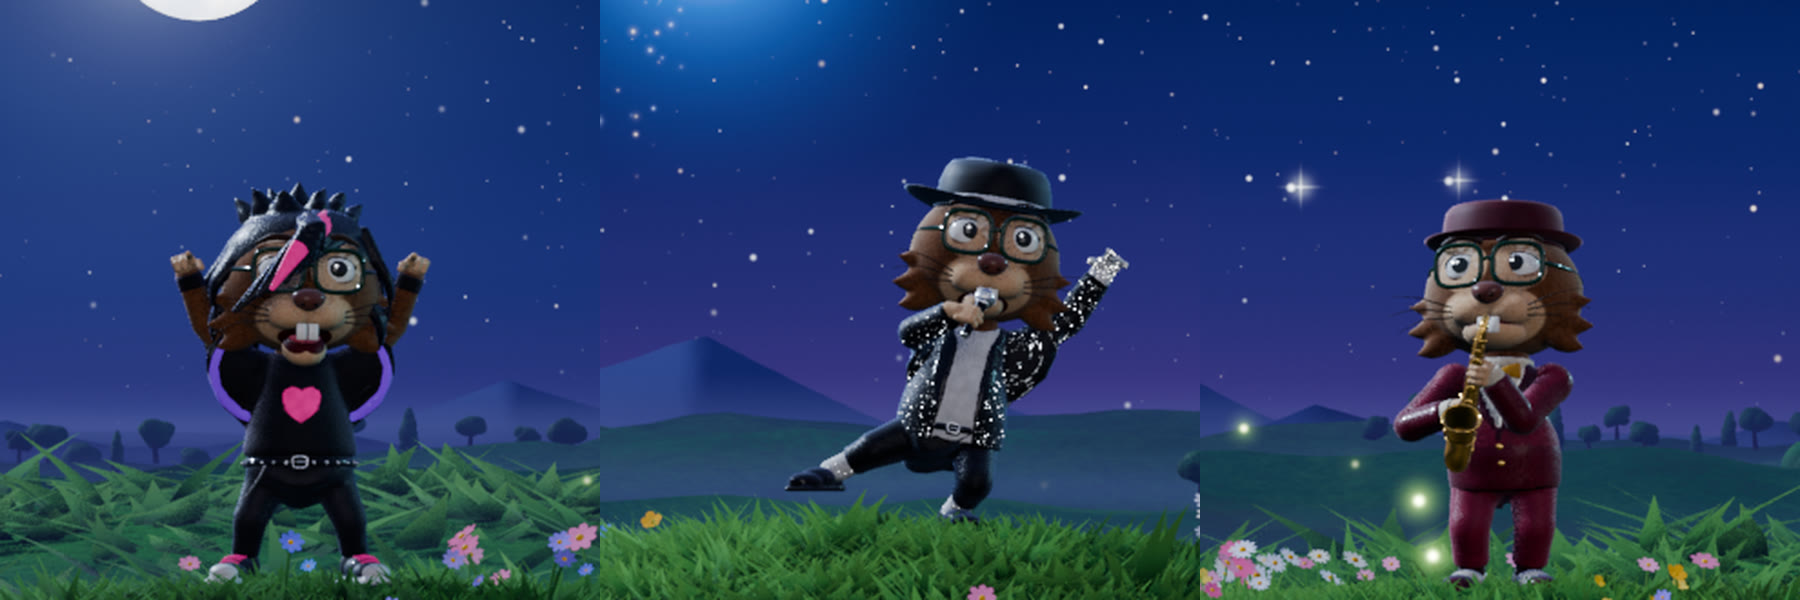
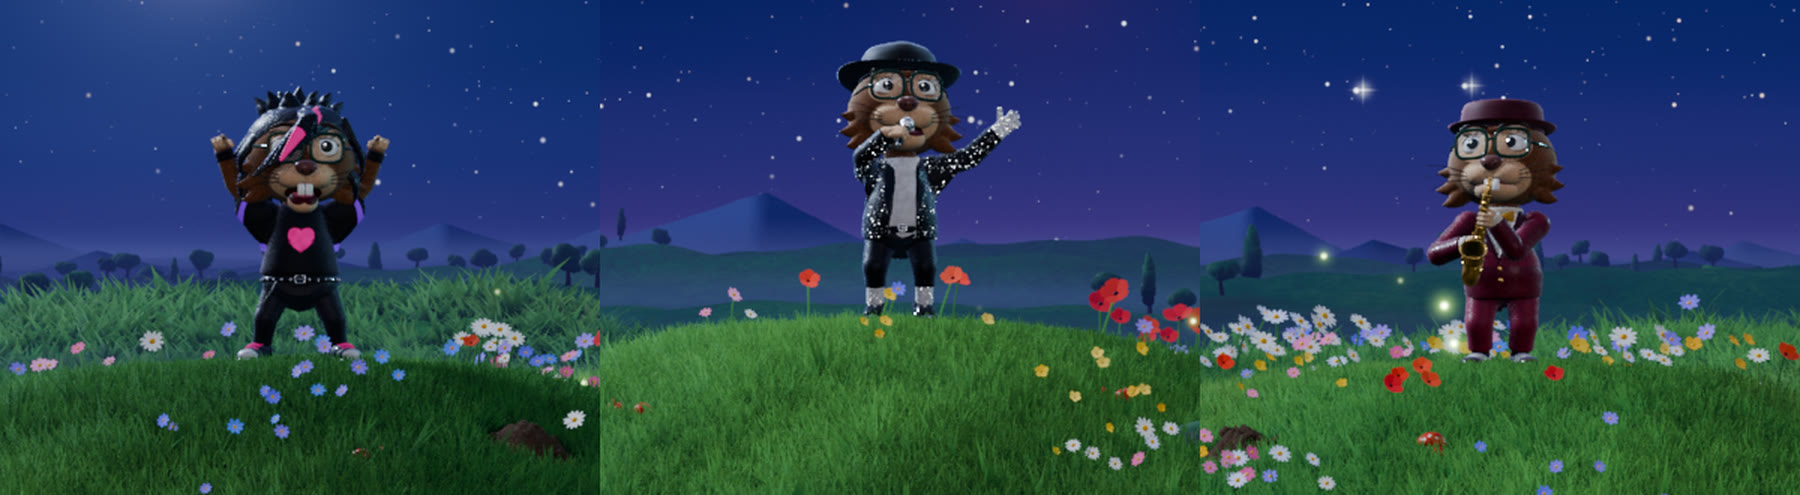
README: final-quality close-ups of the three characters (all three hills checked at final quality)

diff --git a/README.md b/README.md
@@ -93,7 +93,9 @@ All three are lens-shifted slices of the same camera, so the picture continues a
 | Right | Saxophonist | burgundy suit, cream shirt, golden bow tie, pork-pie hat, two-tone shoes, golden alto saxophone | fingering and puffed cheeks follow the notes of the score, sways, knee dips, lifts the horn on accents, eyes close on long notes |
 | Left | Emo dancer | black tee with a pink heart, skinny jeans, studded belt with chain, wristbands, sneakers with pink laces, long fringe with a pink streak | Tecktonik: forearm rolls, alternating windmills round the head, cross-body slices, angular locks, arm waves, heel swivels, jumps, a spin; fastest combinations on the bursts |
 
-![The three characters in scene lighting](docs/preview/characters.jpg)
+![The three characters in the scene, final quality](docs/preview/characters.jpg)
+
+*Final-quality close-ups at 1/4 size (emo dancer and saxophonist at t = 5.0 s, singer at t = 2.5 s).*
 
 The soundtrack (120 BPM pop-funk with saxophone, talk-box vocal and firework sounds) is synthesised
 by `audio/build-soundtrack.mjs` from `src/music/score.js`. The same score drives the lip-sync, the
